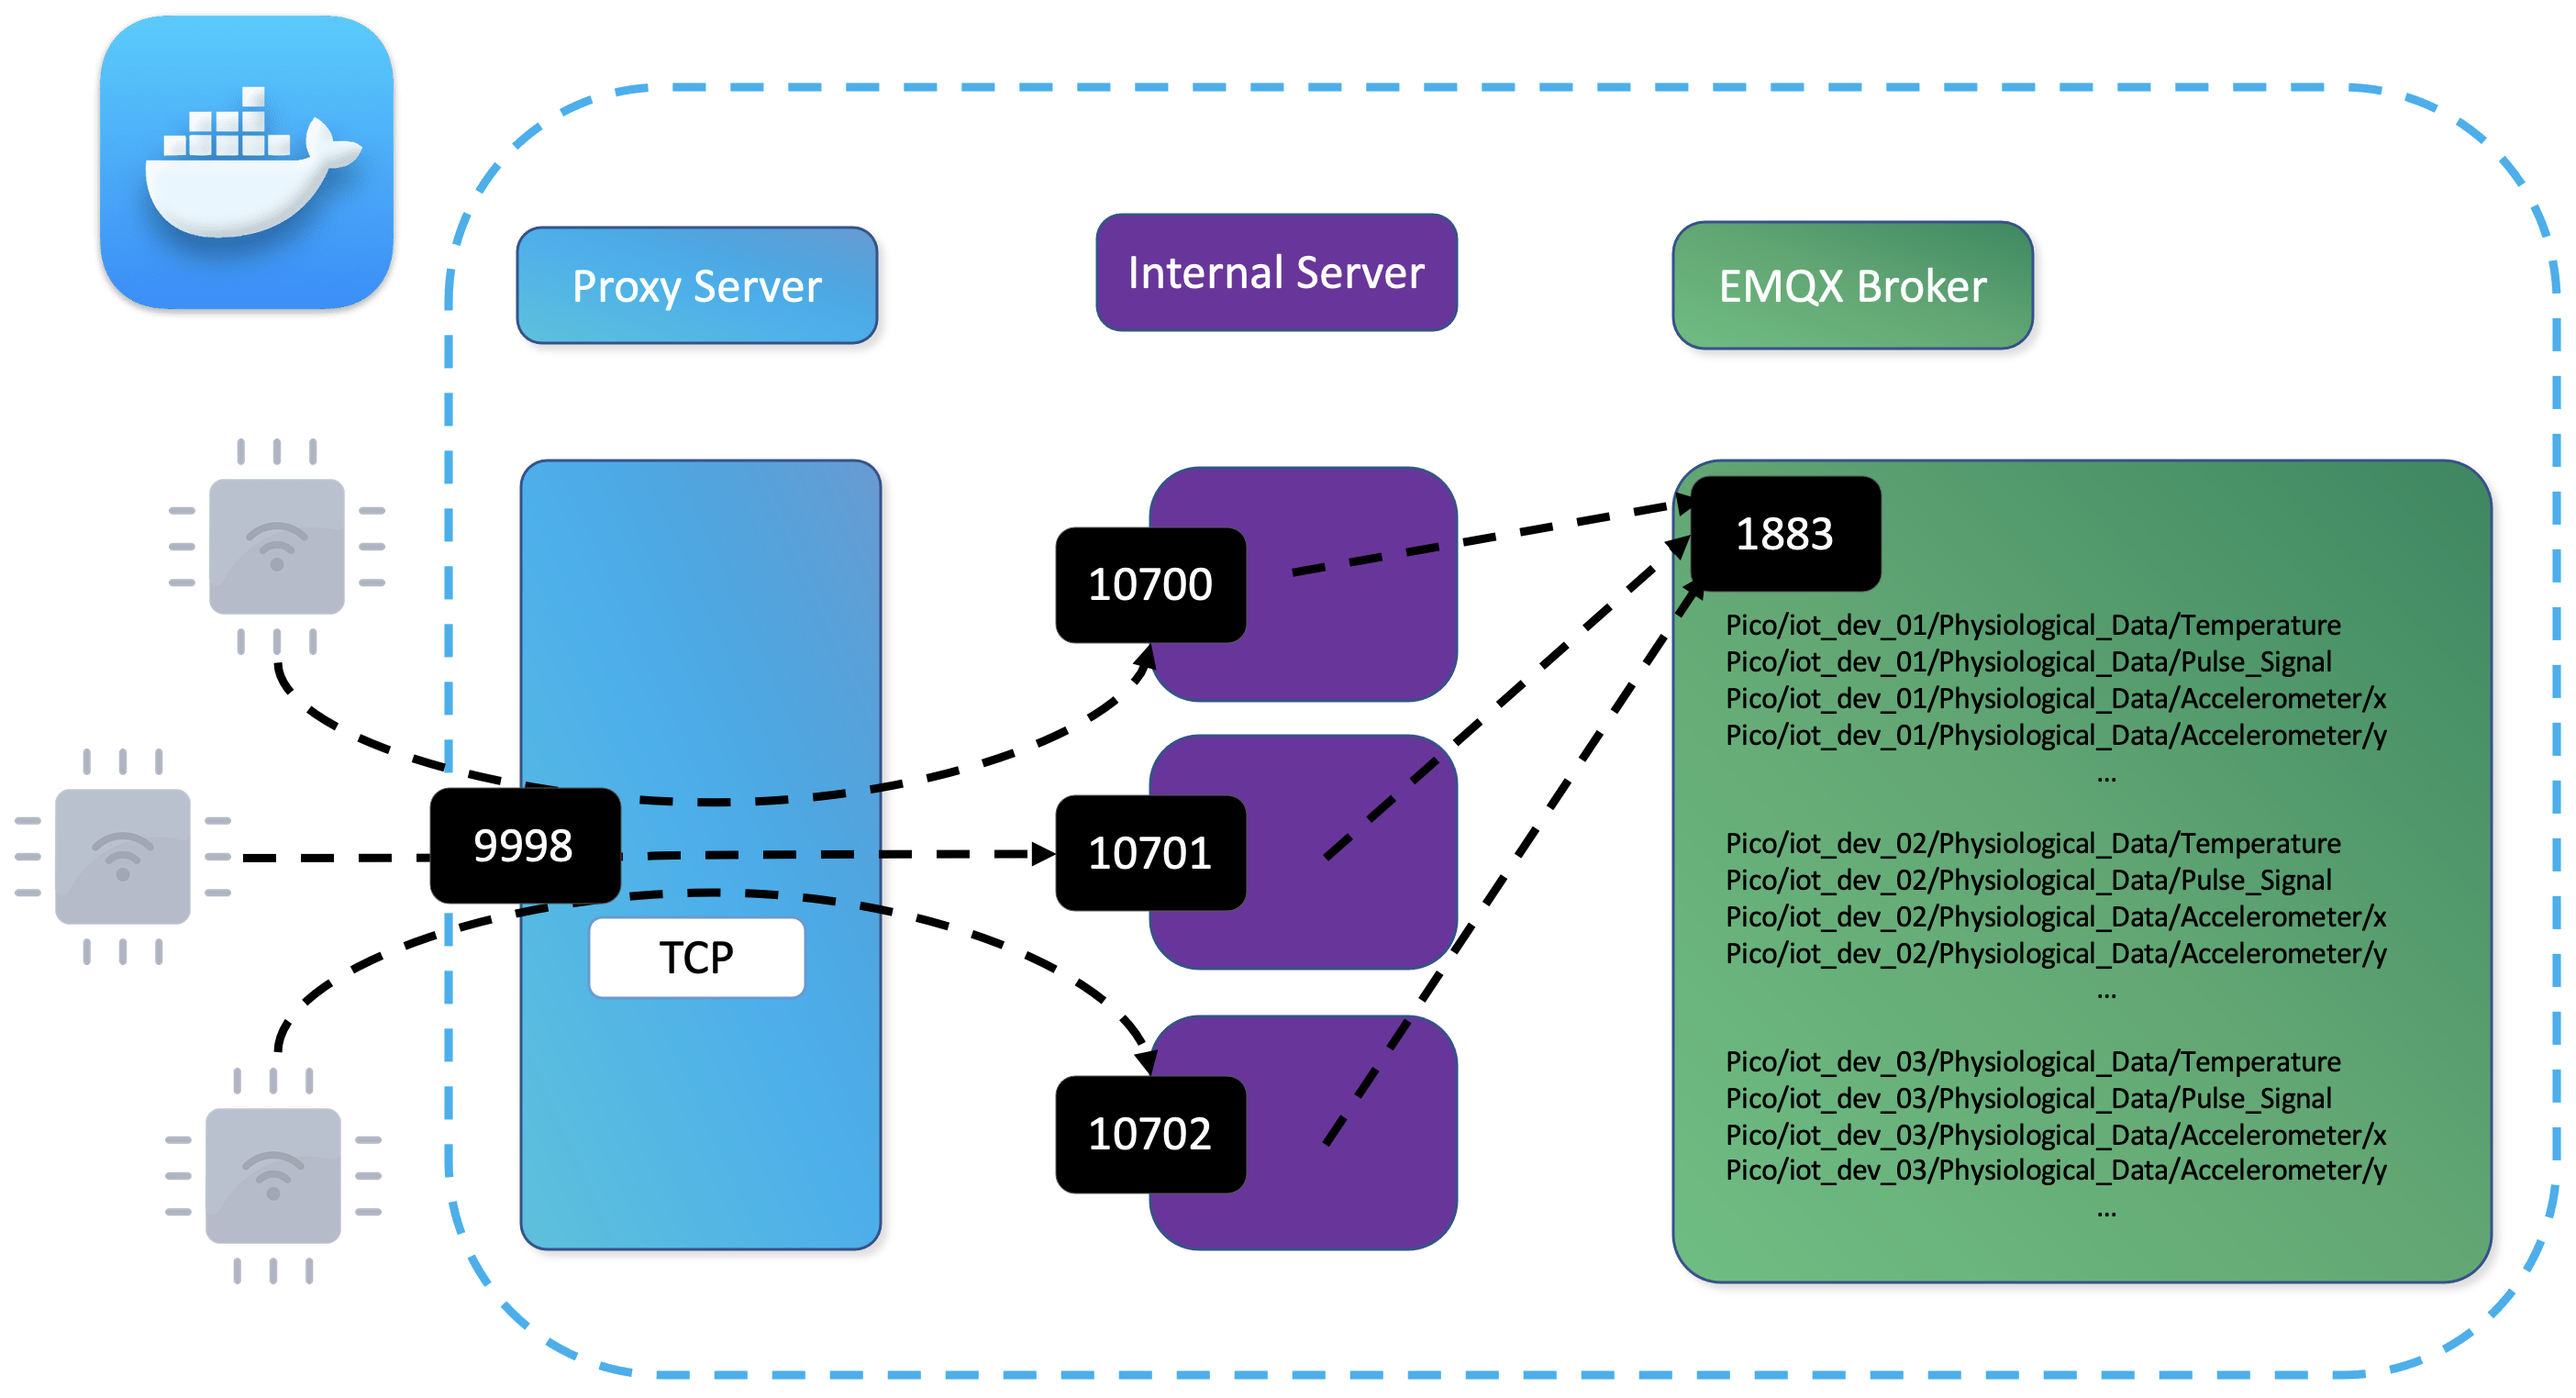
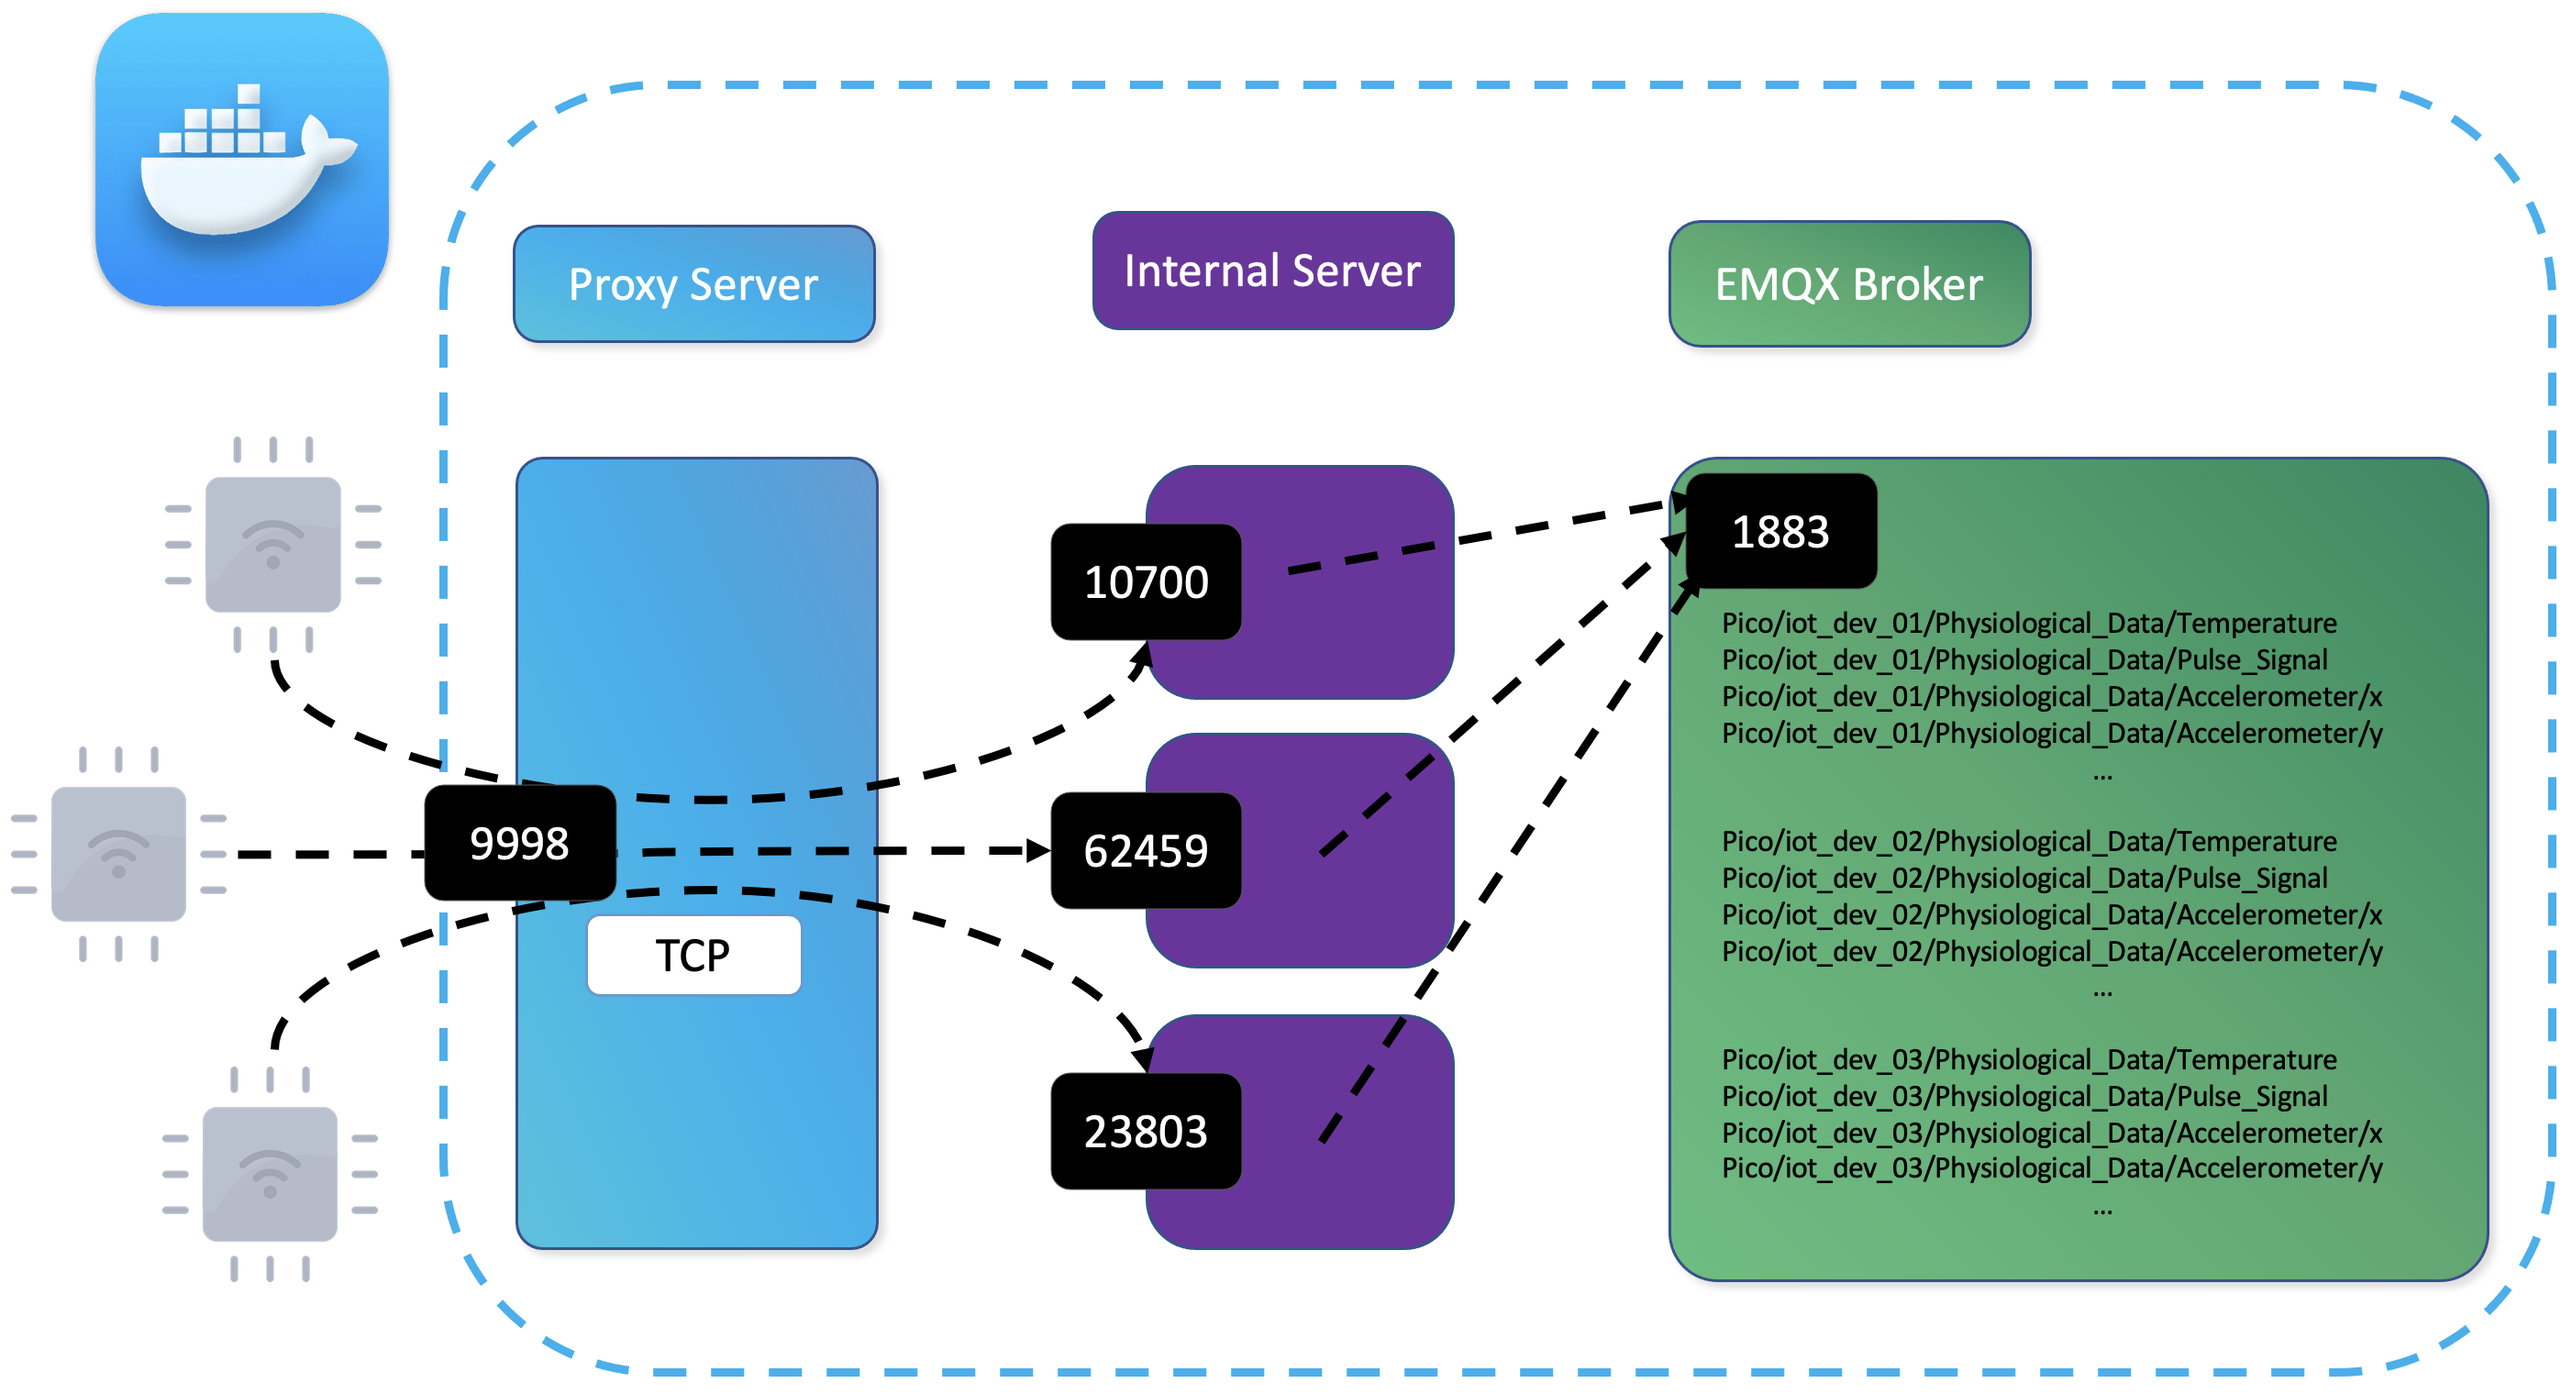
paper changes and images

diff --git a/Documentation/Paper.md b/Documentation/Paper.md
@@ -31,7 +31,7 @@ The system now works as follows:
 
 If the system has never been configured it must be put in configuration mode with a slide button that is in the device. Then a wifi network is enabled without a password, when the user access it, opens the web browser and searches "192.168.4.1", then a page is shown as in figure 1, where the user can register the IP address and port of the server, the Wi-Fi where the device will be connected and its password, also there are two keys that must be entered to cipher the data which will be sent to the device. Once everything is completed the user clicks on the save button and this information is saved into the device. 
 
-![Configuration Page image](/Documentation/Images/Conf_page.png)
+![Configuration Page image](/Documentation/Images/conf_page_mobile.png)
 **Figure 1.** *Configuration page shown in the browser*
 
 Next, the device switches automatically to work mode, it collects data and sends it to an access point (using the Wi-Fi network and password specified in the configuration mode). A server in the IP address and listen in the port specified receives the data and sends it to an MQTT broker where it will be published to be used by authenticated applications, like a dashboard where the data will be shown in a graphical mode.
@@ -55,7 +55,7 @@ Once the data is configured the device starts to operate in work mode or also if
 **Figure 3.** *Pico intern process diagram* 
 
 Then the data travel secure, by the encryption, through a network, that can be a local network or the Internet, until arriving at the destination, a server listens in the 9998 port. 
-The server can be explained in three parts: proxy server, internal server and MQTT broker. The proxy server listens in the 9998 port, when a connection arrives it manages the connection, deploys an internal server listens in a specific port (from 10700 upwards), establishes a TCP connection with that port, and bypass all the traffic that arrives from the initial connection to the TCP connection that connects with the internal server. If it receives another connection in port 9998, the same process is repeated, and so on but changing the port of the internal server. When the data is received by the internal server deployed it has the following tasks:
+The server can be explained in three parts: proxy server, internal server and MQTT broker. The proxy server listens in the 9998 port, when a connection arrives it manages the connection, deploys an internal server listens in a specific port (random free port), establishes a TCP connection with that port, and bypass all the traffic that arrives from the initial connection to the TCP connection that connects with the internal server. If it receives another connection in port 9998, the same process is repeated, and so on but changing the port of the internal server. When the data is received by the internal server deployed it has the following tasks:
 
 - Authentication: When data flow arrives at the server, it is ciphered and is unreadable, so the internal server must identify to whom it belongs to load the respective key. For that, it has a file with all the keys for each device, and it tries to decrypt the message with each one, when it finds something that it expects with a determined format, it assumes that it has identified the user, so it loads the key and the initialization vector. This process only occurs once, then the key will be associated with the connection.
 
@@ -84,7 +84,7 @@ All the server infrastructure can be dockerized, giving the infrastructure the a
 ## 4.1. Cybersecurity:
 
 All the communications susceptible to Man in the Middle attacks are encrypted using AES. Specifically, AES CBC (Cipher Block Chaining) operation mode, using a 128-bit key and a 128-bit initialization vector. In CBC mode, each block of plaintext is XORed with the previous ciphertext block before being encrypted. This way, each ciphertext block depends on all plaintext blocks processed up to that point. To make each message unique, an initialization vector must be used in the first block. The initialization vector can be generated randomly.
-Other cybersecurity policies applied to the infrastructure can be the unique connection to the wi-fi network generated by the device in the configuration mode, the lack of the Internet in that phase, the avoidance of MQTT protocol and its threats in the device, or the dockerization of the server isolate it.
+Other cybersecurity policies applied to the infrastructure can be the unique connection to the wi-fi network generated by the device in the configuration mode, the lack of the Internet in that phase, the avoidance of MQTT protocol in the device and its threats, or the dockerization of the server isolating it.
 
 ## 4.2. Configurability:
 
@@ -102,7 +102,7 @@ Pico/iot_dev_01/Physiological_Data/Accelerometer/z
 Pico/iot_dev_01//Internal_Device_Data/Temperature/MCU
 Pico/iot_dev_01//Internal_Device_Data/Temperature/MPU
 ```
-The Broker is implemented with the most powerful, open-source and industry employed nowadays, called EMQX. It's true that Mosquitto is the most used, but only in maker environments due to its lack of security.
+The Broker is implemented with the most powerful, open-source and industry employed nowadays, called EMQX.
 
 # 4.4 External Applications using the data
 
@@ -123,7 +123,7 @@ Docker offers standardization, being portable anywhere; lightweight, it only ins
 
 To test all the infrastructure a python program has been written to simulate the behavior of the IoT medical device, calling it "pseudo_pico_client.py". It is implemented to avoid the costs of developing many IoT devices and test the multiclient infrastructure. Simultaneous clients are running at the same time using the infrastructure and it responds properly. 
 
-Regarding the power consumption of the device in the previous work it was 110 mAh and now in the configuration mode is 100 mAh and in working mode with the encryption is the same 110 mAh as without encryption as in the previous work.
+Regarding the power consumption of the device in the previous work it was 110 mAh and now in the configuration mode is 100 mAh and in working mode with the encryption is the same 110 mAh as without encryption as in the previous work, 70 mAh of that comes from wifi-module.
 
 # 6. Conclusion:
 
@@ -146,7 +146,7 @@ Finally, I would like to express my gratitude to Eloy José Urendes Jiménez and
 
 [3] Fotios Chantzis, Ioannis Stais, Paulino Calderon, Evangelos Deirmentzoglou, Beau Woods. Practical IoT Hacking, The Definitive Guide to Attacking the Internet of Things. no starch press, 2021 (ISBN: 978-1718500907). Page 6.
 
-[4] 
+[4] Fotios Chantzis, Ioannis Stais, Paulino Calderon, Evangelos Deirmentzoglou, Beau Woods. Practical IoT Hacking, The Definitive Guide to Attacking the Internet of Things. no starch press, 2021 (ISBN: 978-1718500907).
 
 [5] Eric Knipp, Cisco Network Security. Syncress, 2002 (ISBN: 978-1931836562)
 
